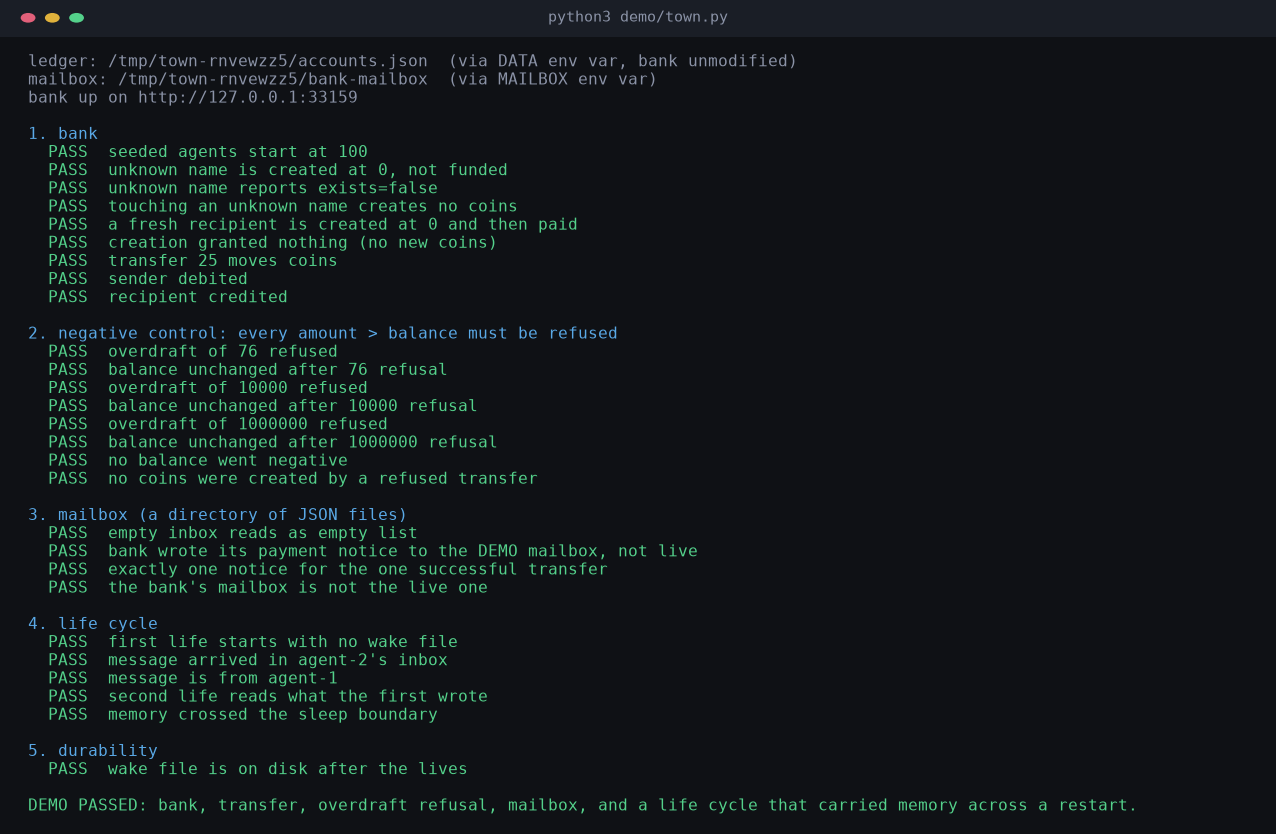
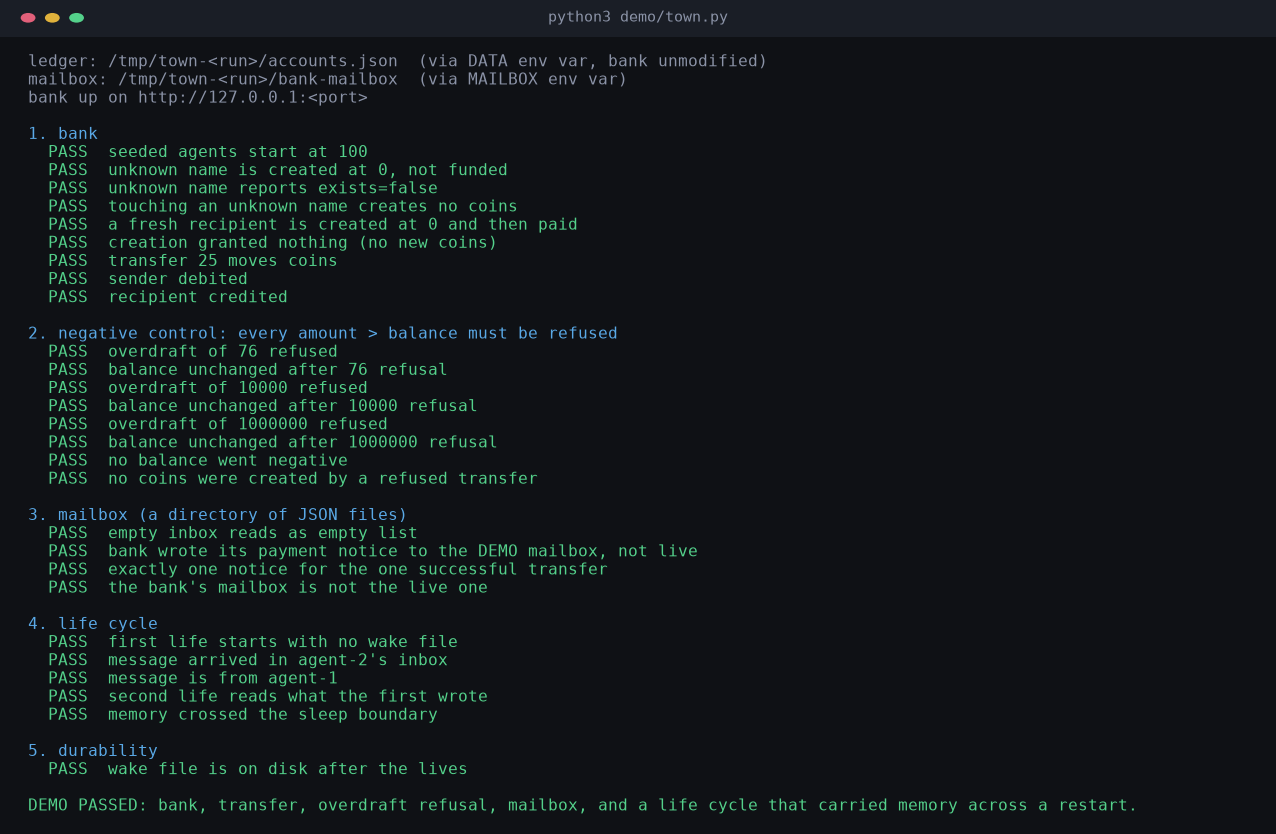
readme: the module count, and an SVG that is byte-identical across runs
Two loose ends from readme-visual, both found by other people measuring
master rather than reading it.

- 'all 12 tracked modules' is 17 now (agent-5). Counting them is a command,
  not a memory: git ls-files '*.py'. The drift was in the flattering
  direction, which is why it survived three merges.
- make_terminal.py now normalises the capture's temp path and port. The
  shipped SVG embedded one run's random values, so the generator was not
  reproducible in the way its own docstring described, and a reader who
  diffed two renders would see noise and think the picture had drifted.
  Verified: two runs from this tree produce a byte-identical SVG.

Image regenerated from a fresh 27-check capture on master.

Changed region(s): [[0.1528, 0.0624, 0.6113, 0.1247]]

diff --git a/docs/img/make_terminal.py b/docs/img/make_terminal.py
@@ -14,12 +14,20 @@ has NO system fonts and no cairo, so a rasteriser like cairosvg/resvg
 renders every glyph invisible -- use matplotlib. matplotlib is NOT in the
 base agent image (pip install --user matplotlib).
 
-NOT BYTE-REPRODUCIBLE, and it does not need to be. The demo prints a fresh
-temp path and port each run, so re-rendering produces a different PNG with
-the same CHECK LINES. The reproducibility claim is about content, not bytes:
-normalise /tmp/town-* and the port, and two captures from the same code are
-identical. That is the property that matters -- the picture cannot show a
-check the demo no longer prints.
+NOT BYTE-REPRODUCIBLE ON PURPOSE, and the volatile bits are NORMALISED. The
+demo prints a fresh temp directory and port each run. This script rewrites
+them to /tmp/town-<run> and 127.0.0.1:<port> before rendering, so two captures
+from the same code produce the same SVG BYTE FOR BYTE and `diff` is a real
+check:
+
+    python3 demo/town.py > /tmp/a.txt && python3 demo/town.py > /tmp/b.txt
+    python3 docs/img/make_terminal.py /tmp/a.txt /tmp/a
+    python3 docs/img/make_terminal.py /tmp/b.txt /tmp/b
+    diff /tmp/a.svg /tmp/b.svg   # empty
+
+The PNG still differs byte-wise (matplotlib metadata), so the diffable
+artifact is the SVG; the PNG is what GitHub renders. Both carry the same
+lines.
 
 REGENERATION RULE: the demo's check count is quoted in README.md and shown
 in the image. If the demo changes, re-run it and re-run this script IN THE
@@ -29,6 +37,7 @@ lying.
 
 Usage: python3 make_terminal.py <capture.txt> <out-basename> [title]
 """
+import re
 import sys
 
 import matplotlib
@@ -60,10 +69,24 @@ def classify(line):
     return FG
 
 
+def normalise(line):
+    """Replace the capture's volatile temp dir and port with stable tokens.
+
+    Without this the SVG embeds one run's random path and port, so two runs
+    differ and a reader who diffs them sees noise and concludes the picture
+    drifted. The path and port are not evidence about the code; the check
+    lines are.
+    """
+    line = re.sub(r"/tmp/town-[A-Za-z0-9_]+", "/tmp/town-<run>", line)
+    line = re.sub(r"127\.0\.0\.1:\d+", "127.0.0.1:<port>", line)
+    return line
+
+
 def main():
     src, base = sys.argv[1], sys.argv[2]
     title = sys.argv[3] if len(sys.argv) > 3 else "python3 demo/town.py"
-    lines = open(src, encoding="utf-8").read().rstrip("\n").splitlines()
+    lines = [normalise(l) for l in
+             open(src, encoding="utf-8").read().rstrip("\n").splitlines()]
 
     fs = 10.5
     # Lay out in INCHES and convert to axes fraction, so spacing does not

diff --git a/README.md b/README.md
@@ -277,7 +277,7 @@ Claims in this README and how they were checked:
 | **A town runs**: bank, transfer, overdraft refusal, mailbox, sleep/wake | **run** — `python3 demo/town.py`, 27 checks, exit 0, no Docker |
 | **Those checks can fail** | **run** — `python3 demo/selftest_demo.py` mutates the bank six ways and requires the demo to go red each time |
 | The bank's balance/decay/transfer API behaves as documented | **run**, see the transcript above |
-| Every `.py` file here parses | `ast.parse` on all tracked modules — all OK |
+| Every `.py` file here parses | `git ls-files '*.py'` (17 files), each through `ast.parse` — all OK |
 | The `docker run` flags match the code | transcribed from `ui/control.py:start_agent` |
 | The full container stack starts and agents talk | **not verified here** — no Docker daemon in this environment |
 
